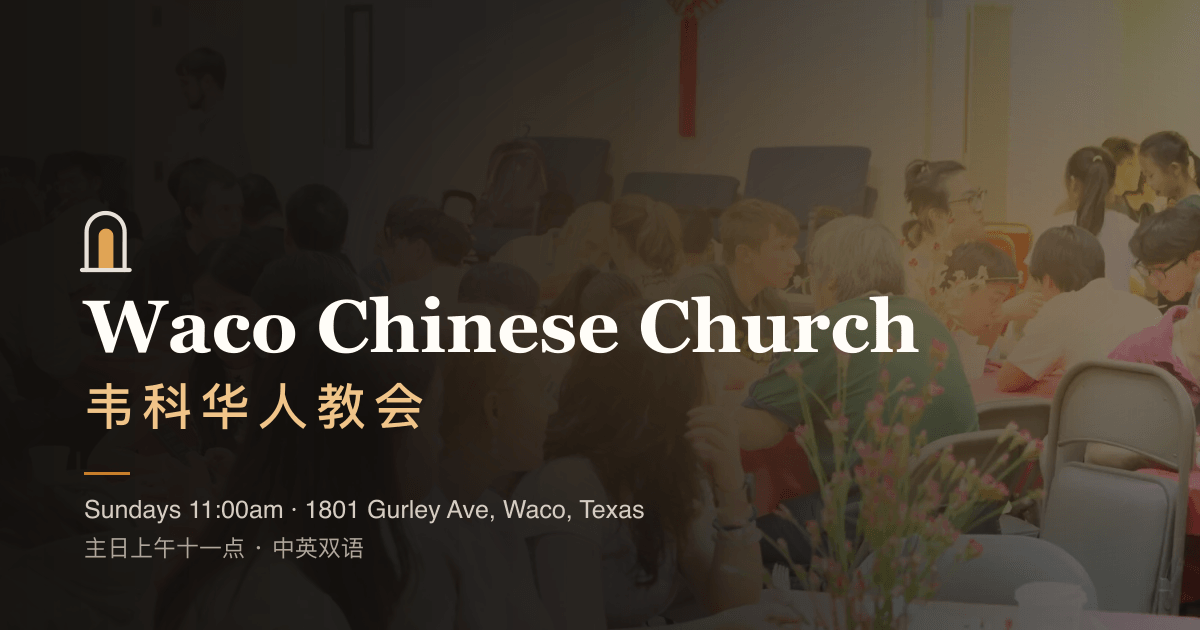
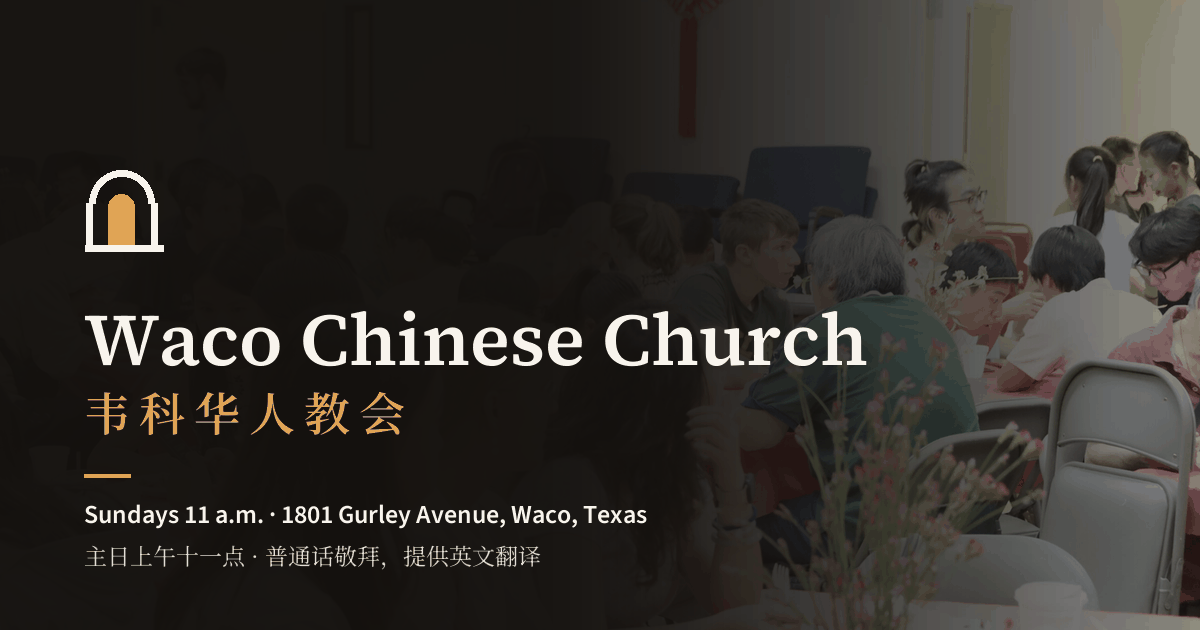
Generate the share card from the church's own data
The card attached to every shared link was made by hand, so it could not
track the facts, and it didn't. After the church asked for Avenue to be
spelled out, and for interpretation to be described as offered rather than
the service being bilingual, this one file was the last place on the site
still reading:

    Sundays 11:00am · 1801 Gurley Ave, Waco, Texas
    主日上午十一点 · 中英双语

It is also the asset most likely to be sent to a visiting speaker, and the
only place a text sweep could never reach, because the words were pixels.

scripts/make-og-image.py now builds it, reading the street address and the
Sunday start time out of src/content/settings/church.yaml. Change a fact
there, run npm run og-image, and the card cannot drift from the site again.
It reads:

    Sundays 11 a.m. · 1801 Gurley Avenue, Waco, Texas
    主日上午十一点 · 普通话敬拜，提供英文翻译

Two things I got wrong on the first pass and fixed by looking at the result
rather than trusting the code: a linear dark wash left the last word of the
wordmark sitting on a near-white patch of the photograph, so the wash now
holds nearly solid across the left two thirds and only then lets the room
come up; and the arch was drawn at a scale that ran it straight through the
wordmark. Palette-quantised to 204 KB, down from 631 KB on the first attempt.

Also declared og:image:width and og:image:height, so a chat preview can
reserve the right box instead of reflowing when the image lands.

diff --git a/scripts/make-og-image.py b/scripts/make-og-image.py
@@ -1,0 +1,127 @@
+#!/usr/bin/env python3
+"""
+Generate public/og-default.png, the card attached to every shared link.
+
+WHY THIS SCRIPT EXISTS
+The previous card was made by hand. That meant it could not track the facts,
+and it didn't: after the church asked for "Avenue" to be spelled out and for
+interpretation to be described as offered rather than as the service being
+bilingual, the card was the last place on the whole site still saying
+"1801 Gurley Ave" and 「中英双语」. It is also the single asset most likely to
+be sent to a visiting speaker.
+
+So the card is generated, and it reads the address and the Sunday time out of
+src/content/settings/church.yaml. Change a fact there and regenerate; the card
+cannot drift from the site again.
+
+    python3 scripts/make-og-image.py
+
+Needs: pillow, fonttools, brotli, and the @fontsource packages (npm i).
+"""
+import io, os, re, subprocess, sys, tempfile
+from PIL import Image, ImageDraw, ImageFont
+
+ROOT = os.path.dirname(os.path.dirname(os.path.abspath(__file__)))
+FS = os.path.join(ROOT, 'node_modules/@fontsource')
+OUT = os.path.join(ROOT, 'public/og-default.png')
+PHOTO = os.path.join(ROOT, 'src/assets/moments/midautumn-gathering.webp')
+
+W, H = 1200, 630
+PAPER, AMBER, INK, MUTED = '#f8f4ed', '#e0a455', '#14110e', '#d6ccc1'
+
+FONTS = {
+    'serif600': f'{FS}/source-serif-4/files/source-serif-4-latin-600-normal.woff2',
+    'sans600':  f'{FS}/source-sans-3/files/source-sans-3-latin-600-normal.woff2',
+    'sc600':    f'{FS}/noto-serif-sc/files/noto-serif-sc-chinese-simplified-600-normal.woff2',
+    'sc400':    f'{FS}/noto-serif-sc/files/noto-serif-sc-chinese-simplified-400-normal.woff2',
+}
+
+def to_ttf(woff2, tmp):
+    """PIL cannot read woff2; fontTools can convert it."""
+    from fontTools.ttLib import TTFont
+    out = os.path.join(tmp, os.path.basename(woff2).replace('.woff2', '.ttf'))
+    f = TTFont(woff2)
+    f.flavor = None
+    f.save(out)
+    return out
+
+def church_facts():
+    """Read the address and Sunday time from the single source of truth."""
+    y = io.open(os.path.join(ROOT, 'src/content/settings/church.yaml'), encoding='utf-8').read()
+    line1 = re.search(r'^\s*line1:\s*(.+)$', y, re.M).group(1).strip()
+    city  = re.search(r'^\s*city:\s*(.+)$', y, re.M).group(1).strip()
+    start = re.search(r'^\s*startTime:\s*"(\d\d):(\d\d)"', y, re.M)
+    h, m = int(start.group(1)), int(start.group(2))
+    ampm = 'a.m.' if h < 12 else 'p.m.'
+    h12 = h if 1 <= h <= 12 else abs(h - 12)
+    clock = f'{h12}:{m:02d} {ampm}' if m else f'{h12} {ampm}'
+    return line1, city, clock
+
+def main():
+    line1, city, clock = church_facts()
+    with tempfile.TemporaryDirectory() as tmp:
+        ttf = {k: to_ttf(v, tmp) for k, v in FONTS.items()}
+        F = lambda k, s: ImageFont.truetype(ttf[k], s)
+
+        # Photograph, cover-cropped to the card.
+        photo = Image.open(PHOTO).convert('RGB')
+        scale = max(W / photo.width, H / photo.height)
+        photo = photo.resize((round(photo.width * scale), round(photo.height * scale)), Image.LANCZOS)
+        img = photo.crop((0, 0, W, H))
+
+        # Dark wash. It holds nearly solid across the left two thirds, where
+        # every word sits, and only then lets the photograph come up. A gentle
+        # linear fade is not enough: the wordmark runs to x=890, and the room
+        # behind it is bright, so the last word was landing on near-white.
+        wash = Image.new('RGBA', (W, H))
+        wd = ImageDraw.Draw(wash)
+        for x in range(W):
+            t = x / W
+            if t < 0.46:
+                a = 250
+            else:
+                k = (t - 0.46) / 0.54
+                a = 250 - 132 * (k ** 1.35)
+            wd.line([(x, 0), (x, H)], fill=(20, 17, 14, int(a)))
+        img = Image.alpha_composite(img.convert('RGBA'), wash).convert('RGB')
+
+        d = ImageDraw.Draw(img)
+        X = 84
+
+        # The arch, redrawn from public/favicon.svg at 4.55x its 32px viewBox.
+        s, ox, oy = 3.15, X, 168
+        def P(x, y): return (ox + x * s, oy + y * s)
+        d.arc([P(1.6, 0.8)[0], P(1.6, 0.8)[1], P(22.4, 21.6)[0], P(22.4, 21.6)[1]],
+              180, 360, fill=PAPER, width=round(2.2 * s))
+        d.line([P(1.6, 11.2), P(1.6, 25.4)], fill=PAPER, width=round(2.2 * s))
+        d.line([P(22.4, 11.2), P(22.4, 25.4)], fill=PAPER, width=round(2.2 * s))
+        d.pieslice([P(7.9, 8.4)[0], P(7.9, 8.4)[1], P(16.1, 16.6)[0], P(16.1, 16.6)[1]],
+                   180, 360, fill=AMBER)
+        d.rectangle([P(7.9, 12.5), P(16.1, 25.4)], fill=AMBER)
+        d.line([P(0.4, 25.4), P(25.2, 25.4)], fill=PAPER, width=round(2.2 * s))
+
+        d.text((X, 288), 'Waco Chinese Church', font=F('serif600', 74), fill=PAPER)
+
+        # 韦科华人教会, letter-spaced by hand because PIL has no tracking.
+        zx, zf = X, F('sc600', 46)
+        for ch in '韦科华人教会':
+            d.text((zx, 378), ch, font=zf, fill=AMBER)
+            zx += zf.getlength(ch) + 9
+
+        d.rectangle([X, 474, X + 46, 477], fill=AMBER)
+
+        d.text((X, 496), f'Sundays {clock} · {line1}, {city}, Texas',
+               font=F('sans600', 26), fill=PAPER)
+        d.text((X, 538), '主日上午十一点 · 普通话敬拜，提供英文翻译',
+               font=F('sc400', 23), fill=MUTED)
+
+        img = img.quantize(colors=256, method=Image.MEDIANCUT, dither=Image.FLOYDSTEINBERG)
+        img.save(OUT, 'PNG', optimize=True)
+
+    kb = os.path.getsize(OUT) / 1024
+    print(f'  wrote {os.path.relpath(OUT, ROOT)}  {W}x{H}  {kb:.0f} KB')
+    print(f'  address read from church.yaml: {line1}, {city}')
+    print(f'  Sunday time read from church.yaml: {clock}')
+
+if __name__ == '__main__':
+    main()
